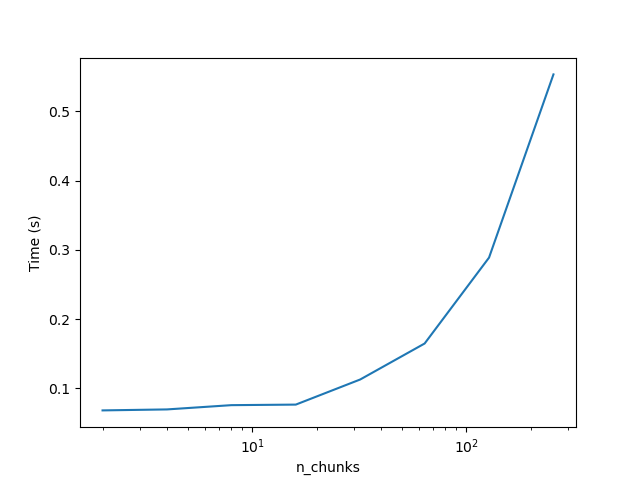
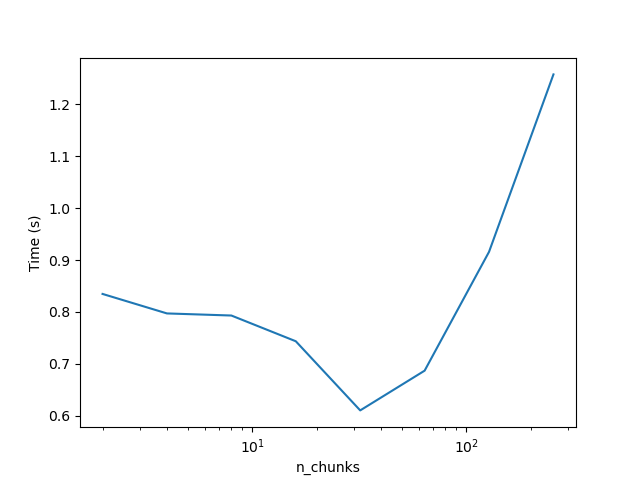
Changing of resolutions for MP2 for better comparisons

diff --git a/Dask/Lecture 6/Dask 1 - Milestone 2.py b/Dask/Lecture 6/Dask 1 - Milestone 2.py
@@ -109,7 +109,7 @@ if __name__ == "__main__":
     # PROBLEM SETUP
     # =========================
 
-    N = 1024
+    N = 4096
     max_iter = 100
 
     xmin, xmax = -2.0, 1.0
@@ -181,6 +181,7 @@ if __name__ == "__main__":
     print("\nn_chunks | time (s) |   vs1x |  Speedup |    LIF")
     print("------------------------------------------------")
 
+    baseline = None
     for n_chunks in chunk_values:
 
         times = []
@@ -197,7 +198,9 @@ if __name__ == "__main__":
             times.append(time.perf_counter() - t0)
 
         t_dask = statistics.median(times)
-        vs1x = t_dask / t_serial
+        if baseline is None:
+            baseline = t_dask
+        vs1x = t_dask / baseline
         speedup = t_serial / t_dask
         lif = 4 * (t_dask / t_serial) - 1
 

diff --git a/Dask/Lecture 6/Dask 1 - Milestone 1.py b/Dask/Lecture 6/Dask 1 - Milestone 1.py
@@ -109,7 +109,7 @@ if __name__ == "__main__":
     # PROBLEM SETUP
     # =========================
 
-    N = 1024
+    N = 4096
     max_iter = 100
 
     xmin, xmax = -2.0, 1.0

diff --git a/Parallel Mandelbrot/Lecture 4/Parallel Mandelbrot 1 - MP2 Milestone 3.py b/Parallel Mandelbrot/Lecture 4/Parallel Mandelbrot 1 - MP2 Milestone 3.py
@@ -107,7 +107,7 @@ if __name__ == "__main__":
     # PROBLEM SETUP
     # =========================
 
-    N = 1024
+    N = 4096
     max_iter = 100
 
     xmin, xmax = -2.0, 1.0

diff --git a/Parallel Mandelbrot/Lecture 5/Parallel Mandelbrot 2 - MP2 Milestone 2.py b/Parallel Mandelbrot/Lecture 5/Parallel Mandelbrot 2 - MP2 Milestone 2.py
@@ -112,7 +112,7 @@ if __name__ == "__main__":
     # PROBLEM SETUP
     # =========================
 
-    N = 1024
+    N = 4096
     max_iter = 100
 
     xmin, xmax = -2.0, 1.0

diff --git a/Parallel Mandelbrot/Lecture 5/Parallel Mandelbrot 2 - MP2 Milestone 3.py b/Parallel Mandelbrot/Lecture 5/Parallel Mandelbrot 2 - MP2 Milestone 3.py
@@ -112,7 +112,7 @@ if __name__ == "__main__":
     # PROBLEM SETUP
     # =========================
 
-    N = 1024
+    N = 4096
     max_iter = 100
 
     xmin, xmax = -2.0, 1.0
